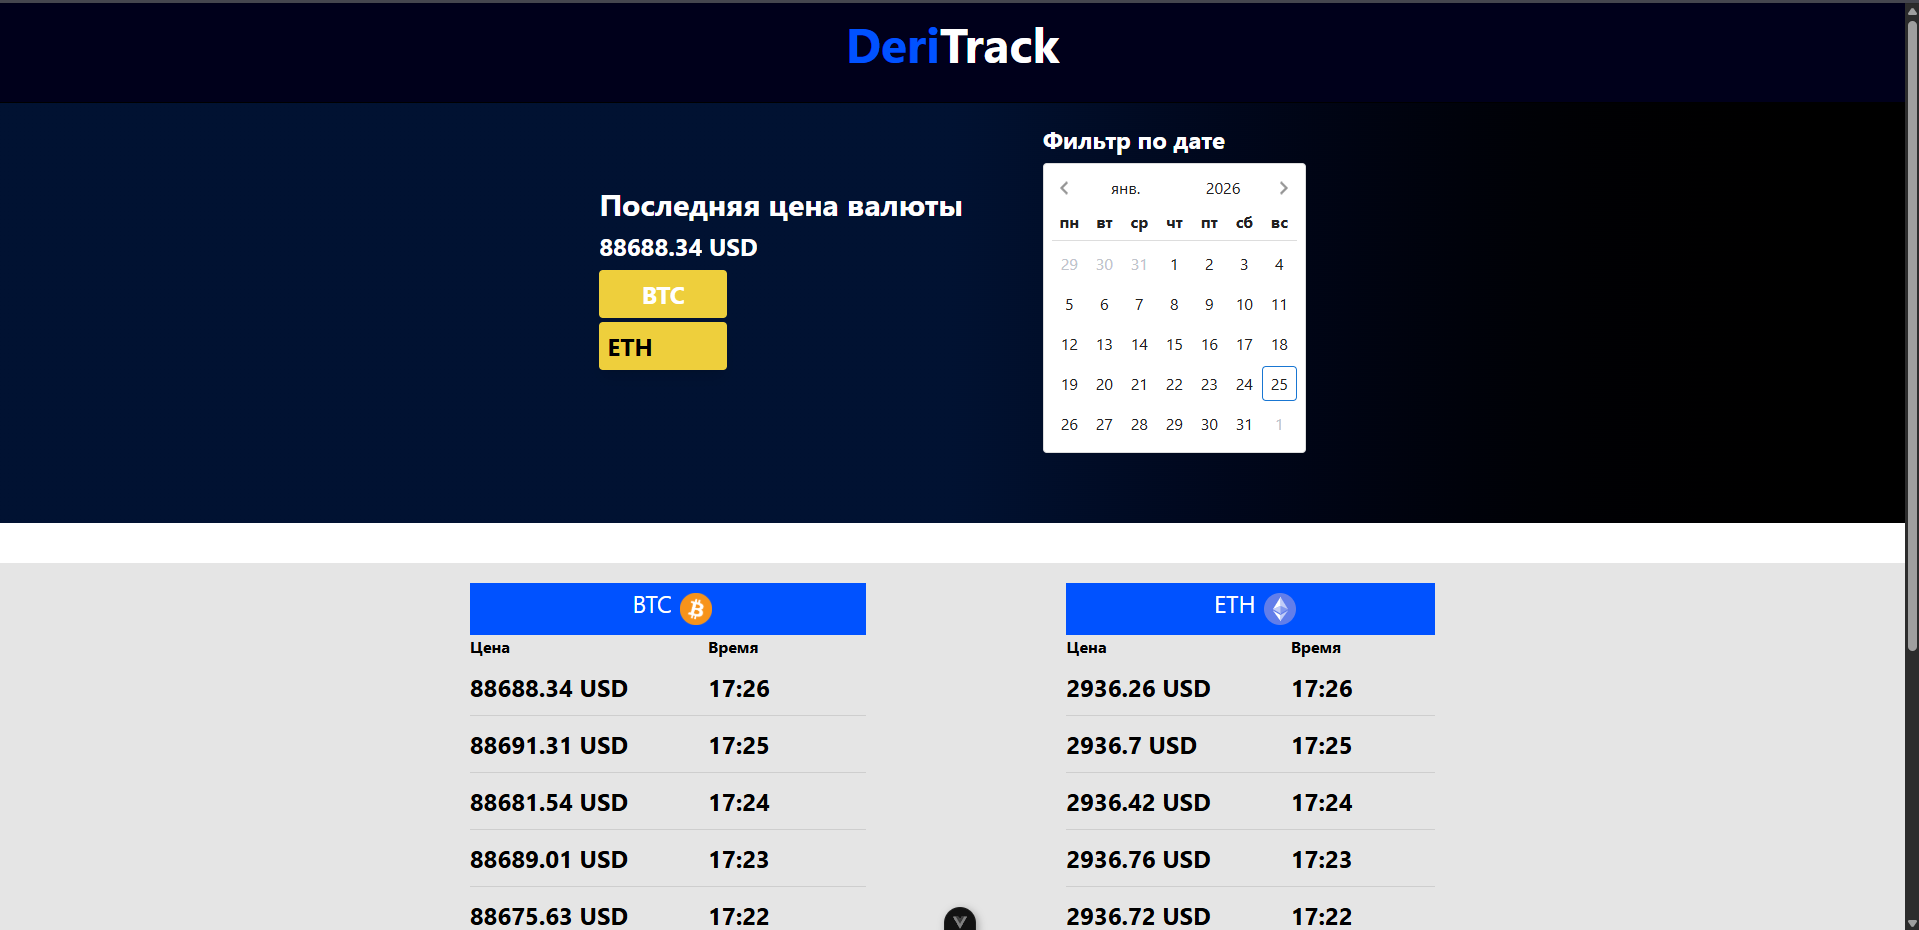
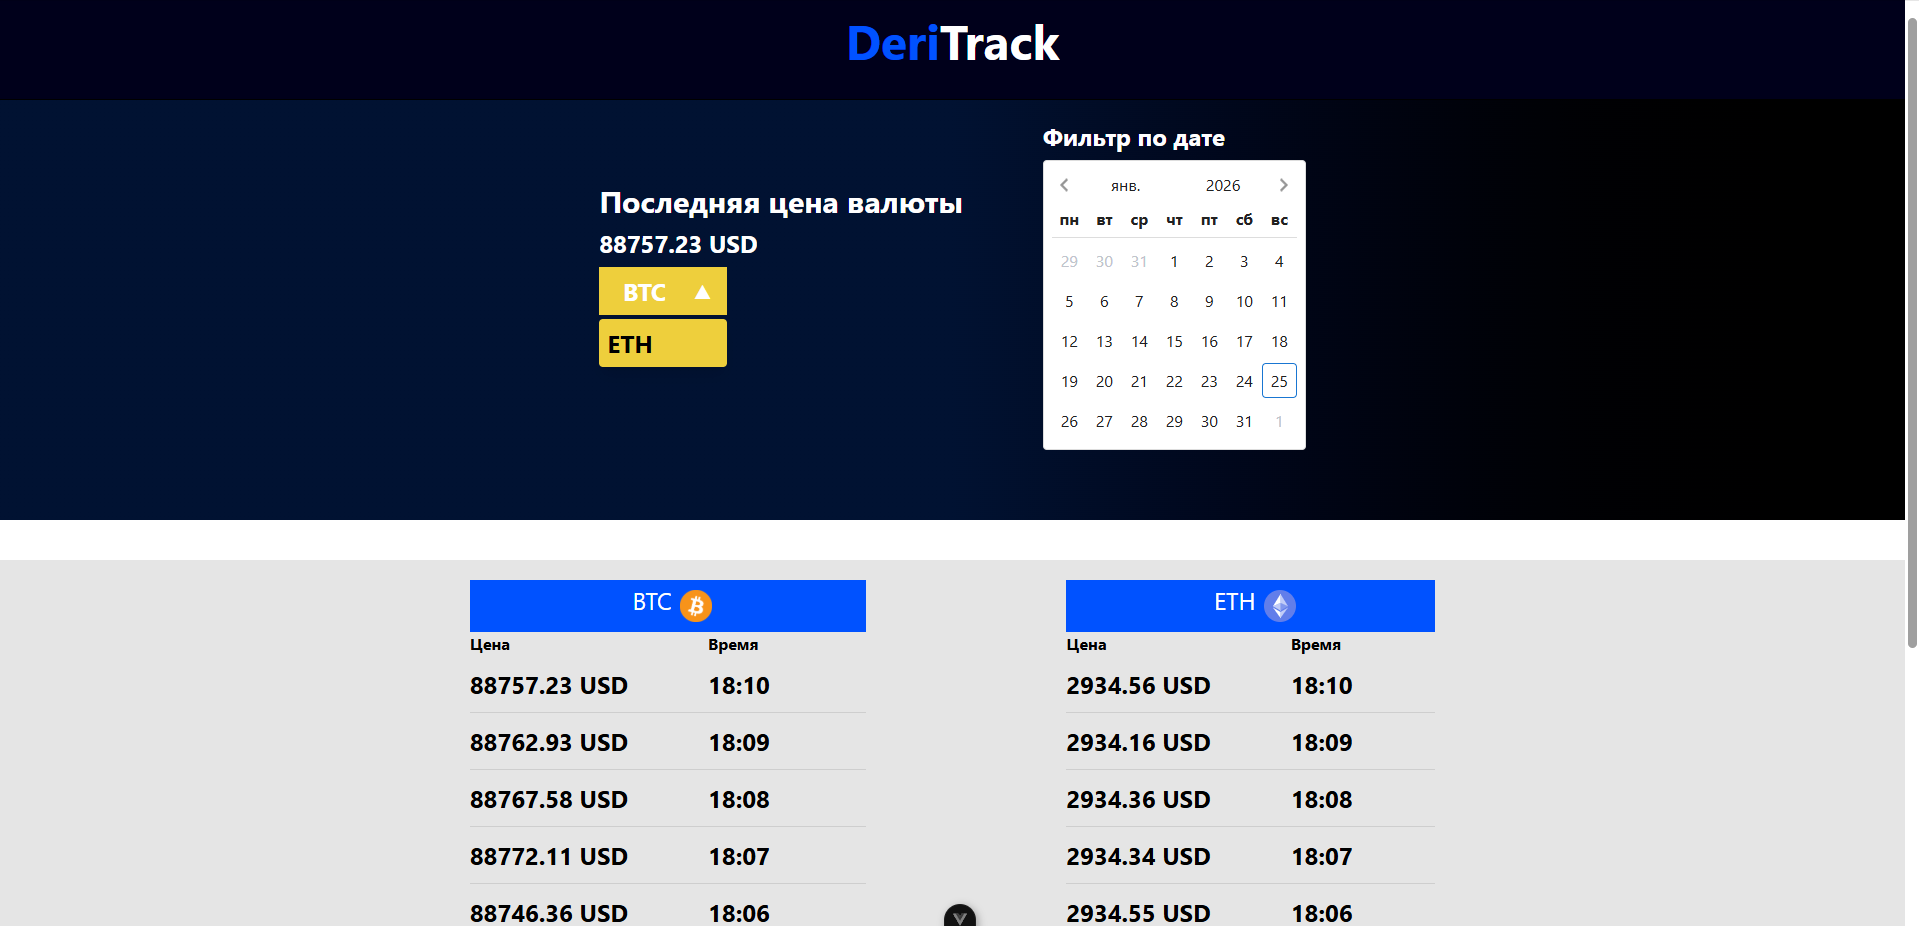
Initial commit

diff --git a/frontend/src/components/Home.vue b/frontend/src/components/Home.vue
@@ -145,16 +145,16 @@ onMounted(() => {
         <div class="min-h-30">
 
           <div class=" w-32 text-white font-bold text-xl">
-
-            <!-- Текущий выбранный тикер -->
+          <div class="bg-[#eecf3c] flex gap-5 items-center justify-center " @click="active = !active;getPriceLatest()">
             <p
-                class="cursor-pointer bg-[#eecf3c] p-2 text-2xl text-center rounded"
-                @click="active = !active;getPriceLatest()"
+                class="cursor-pointer  p-2 text-2xl text-center rounded"
+
             >
               {{ activeTicker }}
             </p>
-
-            <!-- Список валют -->
+            <p v-show="!active">▼</p>
+            <p v-show="active">▲</p>
+          </div>
             <div
                 v-show="active"
                 class=" mt-1 bg-[#eecf3c] text-black rounded shadow-lg z-10"

diff --git a/README.md b/README.md
@@ -10,13 +10,44 @@
 
 ### Используемые технологии
 
-* Python 3.11 – бэкенд
-* FastAPI – REST API + WebSocket
-* PostgreSQL – база данных для хранения исторических цен
-* SQLAlchemy – ORM
-* Celery + Redis – периодический сбор цен
-* aiohttp – асинхронный клиент для Deribit
-* Vue 3 + Vite – фронтенд для отображения последних цен
-* Redis pub/sub – передача новых цен с бэкенда на фронтенд через WebSocket
-* Docker + Docker Compose – контейнеризация приложения
-* Pytest – unit тесты
+- FastAPI
+- PostgreSQL
+- SQLAlchemy
+- Celery
+- Redis
+- aiohttp
+- Vue 3
+- Redis
+- Docker
+
+## Design Decisions
+
+1. **FastAPI** – современный и быстрый фреймворк для REST API и WebSocket, с поддержкой асинхронности.
+2. **PostgreSQL + SQLAlchemy** – используется для хранения исторических цен криптовалют, ORM позволяет писать чистый и поддерживаемый код.
+3. **Celery + Redis** – Celery выполняет периодический сбор цен каждые 60 секунд, Redis используется как брокер сообщений и для WebSocket pub/sub.
+4. **aiohttp** – асинхронный клиент для Deribit API, чтобы не блокировать цикл событий и быстро получать данные по BTC и ETH.
+5. **WebSocket + Vue3** – последние 5 цен отображаются на фронтенде в реальном времени,поиск по конкретной дате и фильтр по валюте, WebSocket обеспечивает мгновенное обновление данных.
+6. **Docker + Docker Compose** – контейнеризация всех компонентов (бэкенд, фронтенд, БД, Redis) для удобного развертывания.
+
+## Запуск проекта
+
+- git clone https://gitlab.com/emir.mahalo-group/crypto-price-tracker.git
+- cd crypto-price-tracker
+- Создать файл .env
+- Добавить поля:
+
+> FRONTEND_ORIGINS = http://localhost:5173,http://127.0.0.1:5173,http://localhost:8080
+
+> REDIS_URL = redis://redis
+
+> DB_USER = deribitAdmin
+
+> DB_NAME = deribitDb
+
+> DB_PASSWORD = 1234
+
+> DB_PORT = 5432
+
+> DB_HOST = db
+
+- docker-compose up --build
